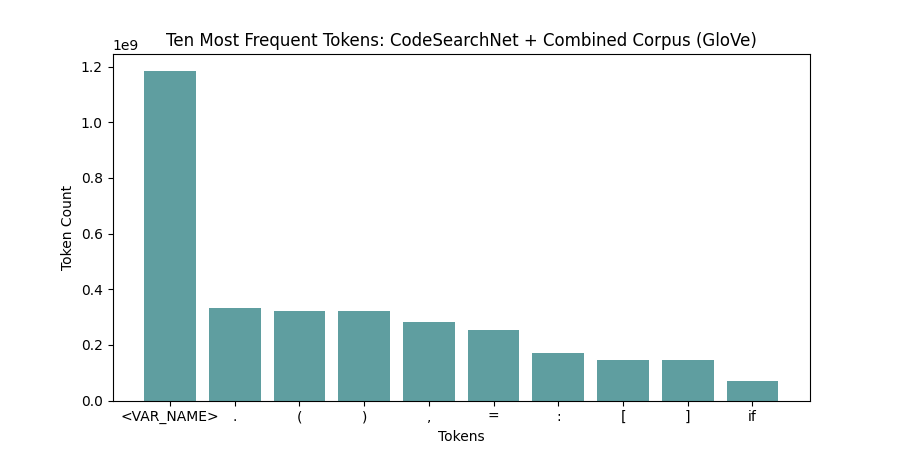
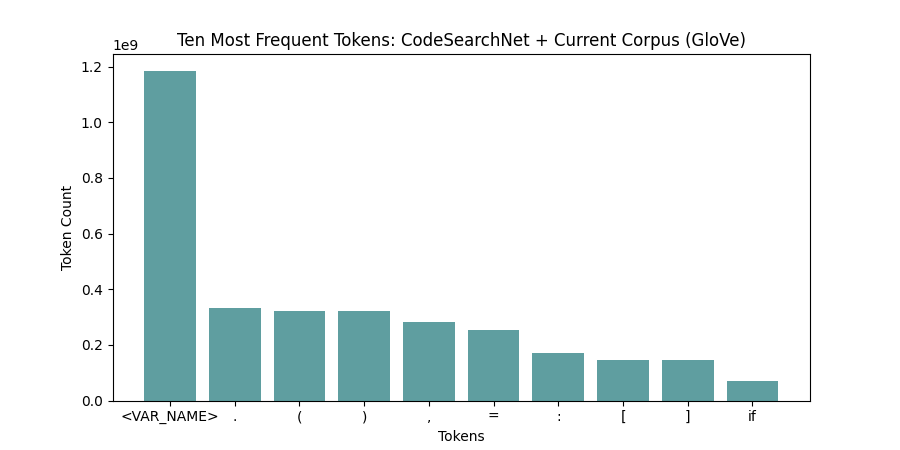
Script clean up

Changed region(s): [[0.1867, 0.0622, 0.84, 0.1244]]

diff --git a/code-embeddings/code/embedding_vocab_analysis.py b/code-embeddings/code/embedding_vocab_analysis.py
@@ -9,24 +9,24 @@ from pathlib import Path
 
 ### Load in Models ###
 
-# Combined Dataset - w2v Model #
-co_model_w2v = KeyedVectors.load('combined-w2v-model.bin')
+# Current Dataset - w2v Model #
+curr_model_w2v = KeyedVectors.load('current-w2v-model-mincount0.bin')
 
-# CodeSearchNet + Combined Dataset - w2v Model #
+# CodeSearchNet + Current Dataset - w2v Model #
 csn_model_w2v_full = Word2Vec.load('csn-w2v.model')
 csn_model_w2v = csn_model_w2v_full.wv
 
-# Combined Dataset - glove Model #
+# Current Dataset - glove Model #
 p = str(Path.cwd())
-glove_f_co = datapath(p + '/combined-glove-vectors.txt')
-tmp_f_co = get_tmpfile(p + '/combined-glove-vectors-as-w2v.txt')
+glove_f_co = datapath(p + '/current-glove-vectors-mincount0.txt')
+tmp_f_co = get_tmpfile(p + '/current-glove-vectors-as-w2v.txt')
 
 _ = glove2word2vec(glove_f_co, tmp_f_co)
 
-co_model_g = KeyedVectors.load_word2vec_format(tmp_f_co)
+curr_model_g = KeyedVectors.load_word2vec_format(tmp_f_co)
 
-# CodeSearchNet + Combined Dataset - glove Model #
-glove_f_csn = datapath(p + '/csn-glove-vectors.txt')
+# CodeSearchNet + Current Dataset - glove Model #
+glove_f_csn = datapath(p + '/csn-glove-vectors-mincount0.txt')
 tmp_f_csn = get_tmpfile(p + '/csn-glove-vectors-as-w2v.txt')
 
 _ = glove2word2vec(glove_f_csn, tmp_f_csn)
@@ -55,9 +55,9 @@ def Analysis(model,color,label,l1,l2):
 
     if (l1=='g'):
         if l2=='co':
-            file = 'combined-glove-vocab.txt'
+            file = 'current-glove-vocab-mincount0.txt'
         else:
-            file = 'csn-glove-vocab.txt'
+            file = 'csn-glove-vocab-mincount0.txt'
         tfile = open(file, 'r')
         g_count = {}
         temp = []
@@ -153,16 +153,7 @@ def Analysis(model,color,label,l1,l2):
             plt.figure(figsize=(7,4))
             plt.scatter(result[0:, 0], result[0:, 1], c=color, marker='.')
             words = list(model.vocab)
-            #random.seed(0)
-            """
-            wl = []
-            index = random.sample(range(w_size-1),15)
-            for i in index:
-                wl.append(words[i])
-
-            for i, word in enumerate(wl):
-                plt.annotate(word, xy=(result[index[i],0], result[index[i],1]), fontsize='small')
-            """
+            
             plt.title('PCA Graph for All Tokens: ' + label)
             name = 'PCAall-' + im_name
             plt.savefig(name)
@@ -198,14 +189,14 @@ def Analysis(model,color,label,l1,l2):
 
     setUp(all=True,top=10)
 
-# Combined Dataset - w2v Model #
-Analysis(co_model_w2v,'firebrick','Combined Corpus (w2v)','w','co')
+# Current Dataset - w2v Model #
+Analysis(curr_model_w2v,'firebrick','Current Corpus (w2v)','w','co')
 
-# CodeSearchNet + Combined Dataset - w2v Model #
-Analysis(csn_model_w2v,'purple','CodeSearchNet + Combined Corpus (w2v)','w','csn')
+# CodeSearchNet + Current Dataset - w2v Model #
+Analysis(csn_model_w2v,'purple','CodeSearchNet + Current Corpus (w2v)','w','csn')
 
-# Combined Dataset - glove Model #
-Analysis(co_model_g,'tomato','Combined Corpus (GloVe)','g','co')
+# Current Dataset - glove Model #
+Analysis(curr_model_g,'tomato','Current Corpus (GloVe)','g','co')
 
-# CodeSearchNet + Combined Dataset - glove Model #
-Analysis(csn_model_g,'cadetblue','CodeSearchNet + Combined Corpus (GloVe)','g','csn')
+# CodeSearchNet + Current Dataset - glove Model #
+Analysis(csn_model_g,'cadetblue','CodeSearchNet + Current Corpus (GloVe)','g','csn')

diff --git a/code-embeddings/code/for training/csn w2v/trainW2V_csn_eachcsn.py b/code-embeddings/code/for training/csn w2v/trainW2V_csn_eachcsn.py
@@ -6,7 +6,7 @@ import re
 import sys
 
 ### Load in Model ###
-model = Word2Vec.load('w2v-csn.model')
+model = Word2Vec.load('csn-w2v.model')
 
 ### Load in Corpus Text File ###
 token_words = []
@@ -38,7 +38,7 @@ model.train(sentences, total_examples=te, epochs=model.epochs)
 
 print('\n\nModel Summary:')
 print(model)
-model.save('co-w2v.bin')
+model.save('csn-w2v.model')
 
 ## Edit results with added file + model summary
 results.append("-------Model Summary--------")

diff --git a/code-embeddings/code/for training/csn glove/inspectGlove_csn.py b/code-embeddings/code/for training/csn glove/inspectGlove_csn.py
@@ -7,8 +7,8 @@ import random
 from pathlib import Path
 
 ### Load in Model ###
-glove_f_csn = datapath(p + '/vectors-csn.txt')
-tmp_f_csn = get_tmpfile(p + '/glove_w2v_csn.txt')
+glove_f_csn = datapath(p + '/csn-glove-vectors-mincount0.txt')
+tmp_f_csn = get_tmpfile(p + '/csn-glove-vectors-mincount0-as-w2v.txt')
 
 _ = glove2word2vec(glove_f_csn, tmp_f_csn)
 

diff --git a/code-embeddings/code/for training/csn w2v/trainW2V_csn_onlycurrent.py b/code-embeddings/code/for training/csn w2v/trainW2V_csn_onlycurrent.py
@@ -24,7 +24,7 @@ sentences = token_words
 model = Word2Vec(sentences, window=15, min_count=5, sg=1, iter=10)
 print('\n\nModel Summary:')
 print(model)
-model.save('w2v-csn.model')
+model.save('csn-w2v.model')
 
 ## Edit results with added file + model summary
 results.append("-------Model Summary--------")

diff --git a/code-embeddings/results/README.md b/code-embeddings/results/README.md
@@ -4,24 +4,24 @@ This folder contains the results of the embeddings.
 ## Frequency Count
 The `freq-count-bargraph` folder contains four bar graphs of the ten most frequent tokens.
 
-- `FreqCount-combined-glove.png`: GloVe embeddings of the combined dataset
-- `FreqCount-combined-w2v.png`: Word2Vec embeddings of the combined dataset
-- `FreqCount-csn-glove.png`: GloVe embeddings of the CodeSearchNet + combined datasets
-- `FreqCount-csn-glove.png`: Word2Vec embeddings of the CodeSearchNet + combined datasets
+- `FreqCount-combined-glove.png`: GloVe embeddings of the current dataset
+- `FreqCount-combined-w2v.png`: Word2Vec embeddings of the current dataset
+- `FreqCount-csn-glove.png`: GloVe embeddings of the CodeSearchNet + current datasets
+- `FreqCount-csn-glove.png`: Word2Vec embeddings of the CodeSearchNet + current datasets
 
 ## PCA Graphs
 The `pca-graphs` folder contains eight PCA visualizations of the embeddings, two per embeddings/corpus combination.
 
 - `All`: This folder contains the visualization of all the tokens within each embeddings/corpus.
-  - `PCAall-combined-glove.png`: GloVe embeddings of the combined dataset
-  - `PCAall-combined-w2v.png`: Word2Vec embeddings of the combined dataset
-  - `PCAall-csn-glove.png`: GloVe embeddings of the CodeSearchNet + combined datasets
-  - `PCAall-csn-w2v.png`: Word2Vec embeddings of the CodeSearchNet + combined datasets
+  - `PCAall-combined-glove.png`: GloVe embeddings of the current dataset
+  - `PCAall-combined-w2v.png`: Word2Vec embeddings of the current dataset
+  - `PCAall-csn-glove.png`: GloVe embeddings of the CodeSearchNet + current datasets
+  - `PCAall-csn-w2v.png`: Word2Vec embeddings of the CodeSearchNet + current datasets
 - `Top10`: This folder contains the visualization of the 10 most frequently appearing tokens within each embeddings/corpus.
-  - `PCAfreq-combined-glove.png`: GloVe embeddings of the combined dataset
-  - `PCAfreq-combined-w2v.png`: Word2Vec embeddings of the combined dataset
-  - `PCAfreq-csn-glove.png`: GloVe embeddings of the CodeSearchNet + combined datasets
-  - `PCAfreq-csn-w2v.png`: Word2Vec embeddings of the CodeSearchNet + combined datasets  
+  - `PCAfreq-combined-glove.png`: GloVe embeddings of the current dataset
+  - `PCAfreq-combined-w2v.png`: Word2Vec embeddings of the current dataset
+  - `PCAfreq-csn-glove.png`: GloVe embeddings of the CodeSearchNet + current datasets
+  - `PCAfreq-csn-w2v.png`: Word2Vec embeddings of the CodeSearchNet + current datasets  
 
 ## Vocabulary Results
 The text file `vocab-results.txt` contains information about the vocabulary of each dataset, including:
@@ -29,8 +29,8 @@ The text file `vocab-results.txt` contains information about the vocabulary of e
 1. The number of tokens
 2. 10 most frequent tokens along with the number of times they appear
 
-## CodeSearchNet + Combined Datasets Word2Vec Training Results
-The text file `w2v-csn-training-results.txt` contains insight into the training process for the CodeSearchNet + combined dataset for Word2Vec. Specifically, the file includes a snapshot of the model each time a new text file was processed (e.g. `codeSearchNetVocab0.txt`. `codeSearchNetVocab1.txt`, etc.). This snapshot includes the following:
+## CodeSearchNet + Current Datasets Word2Vec Training Results
+The text file `w2v-csn-training-results.txt` contains insight into the training process for the CodeSearchNet + current dataset for Word2Vec. Specifically, the file includes a snapshot of the model each time a new text file was processed (e.g. `codeSearchNetVocab0.txt`. `codeSearchNetVocab1.txt`, etc.). This snapshot includes the following:
 
 1. Model Summary: This notably shows the vocabulary count after training the model on that particular file
 2. Similarity tests: This contains similarity tests run on the model after processing a particular file

diff --git a/code-embeddings/code/how-to-use-the-models/README.md b/code-embeddings/code/how-to-use-the-models/README.md
@@ -9,13 +9,13 @@ from gensim.models import KeyedVectors
 
 Then load in the models with the following code:
 
-***Combined Dataset Model:***
+***Current Dataset Model:***
 
 ```
-co_model_w2v = KeyedVectors.load('combined-w2v-model.bin')
+co_model_w2v = KeyedVectors.load('current-w2v-model-mincount0.bin')
 ```
 
-***CodeSearchNet + Combined Dataset Model:***
+***CodeSearchNet + Current Dataset Model:***
 
 ```
 csn_model_w2v_full = Word2Vec.load('csn-w2v.model')
@@ -35,23 +35,23 @@ from pathlib import Path
 
 Then load in the models with the following code:
 
-***Combined Dataset Model:***
+***Current Dataset Model:***
 
 ```
 p = str(Path.cwd())
-glove_f_co = datapath(p + '/combined-glove-vectors.txt')
-tmp_f_co = get_tmpfile(p + '/combined-glove-vectors-as-w2v.txt')
+glove_f_co = datapath(p + '/current-glove-vectors-mincount0.txt')
+tmp_f_co = get_tmpfile(p + '/current-glove-vectors-mincount0-as-w2v.txt')
 
 _ = glove2word2vec(glove_f_co, tmp_f_co)
 
 co_model_g = KeyedVectors.load_word2vec_format(tmp_f_co)
 ```
 
-***CodeSearchNet + Combined Dataset Model:***
+***CodeSearchNet + Current Dataset Model:***
 
 ```
-glove_f_csn = datapath(p + '/csn-glove-vectors.txt')
-tmp_f_csn = get_tmpfile(p + '/csn-glove-vectors-as-w2v.txt')
+glove_f_csn = datapath(p + '/csn-glove-vectors-mincount0.txt')
+tmp_f_csn = get_tmpfile(p + '/csn-glove-vectors-mincount0-as-w2v.txt')
 
 _ = glove2word2vec(glove_f_csn, tmp_f_csn)
 
